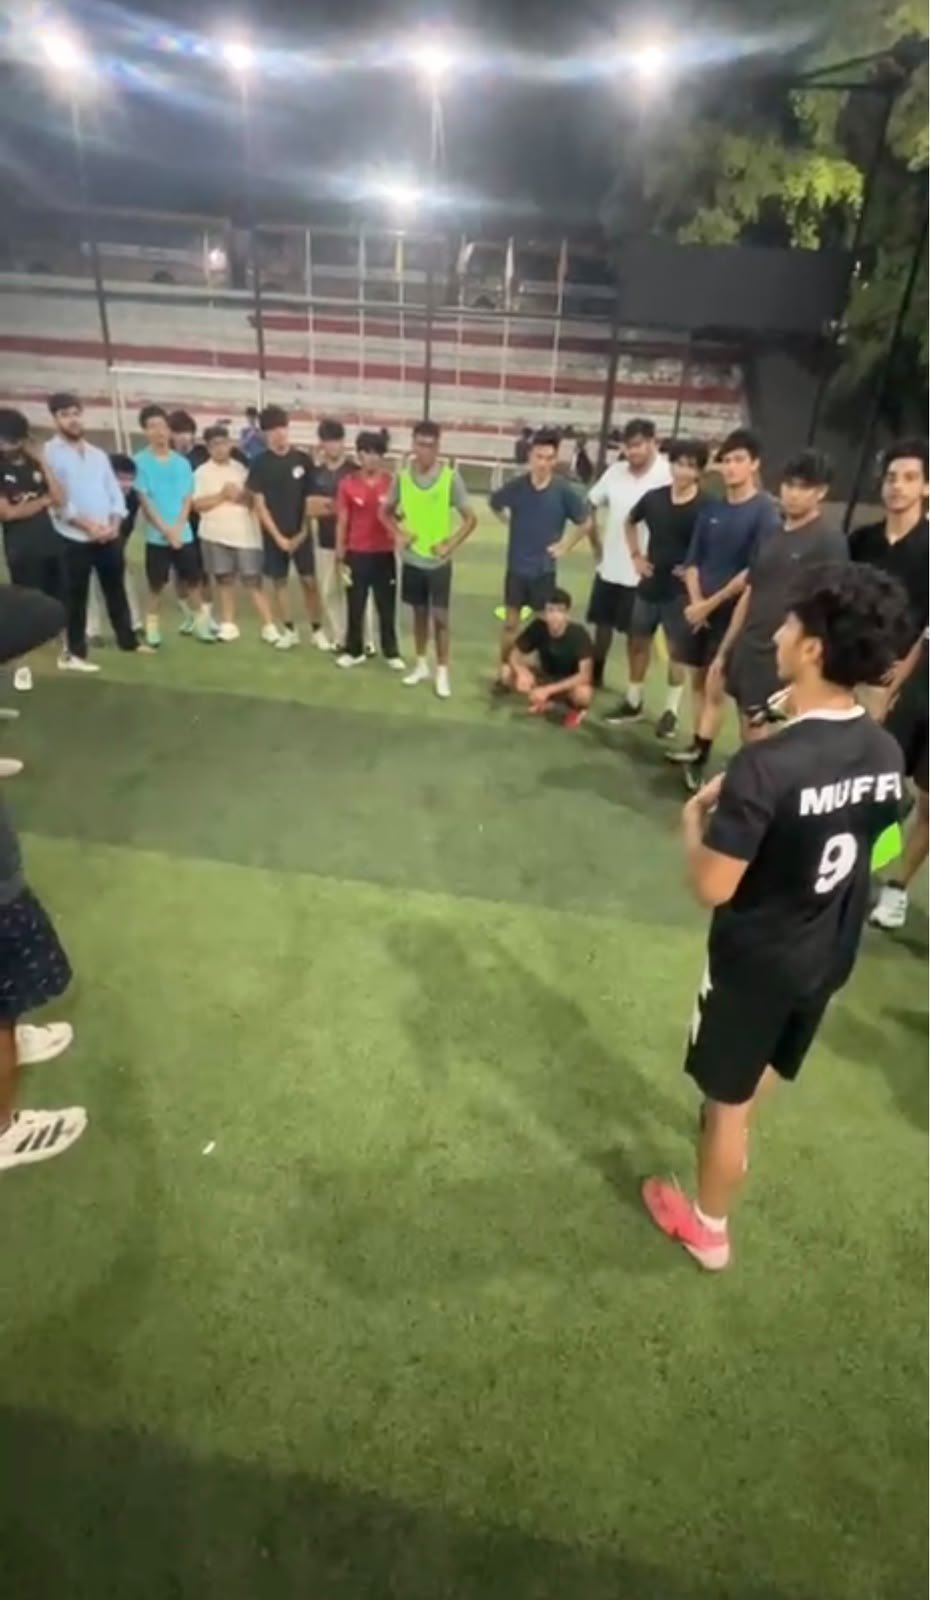
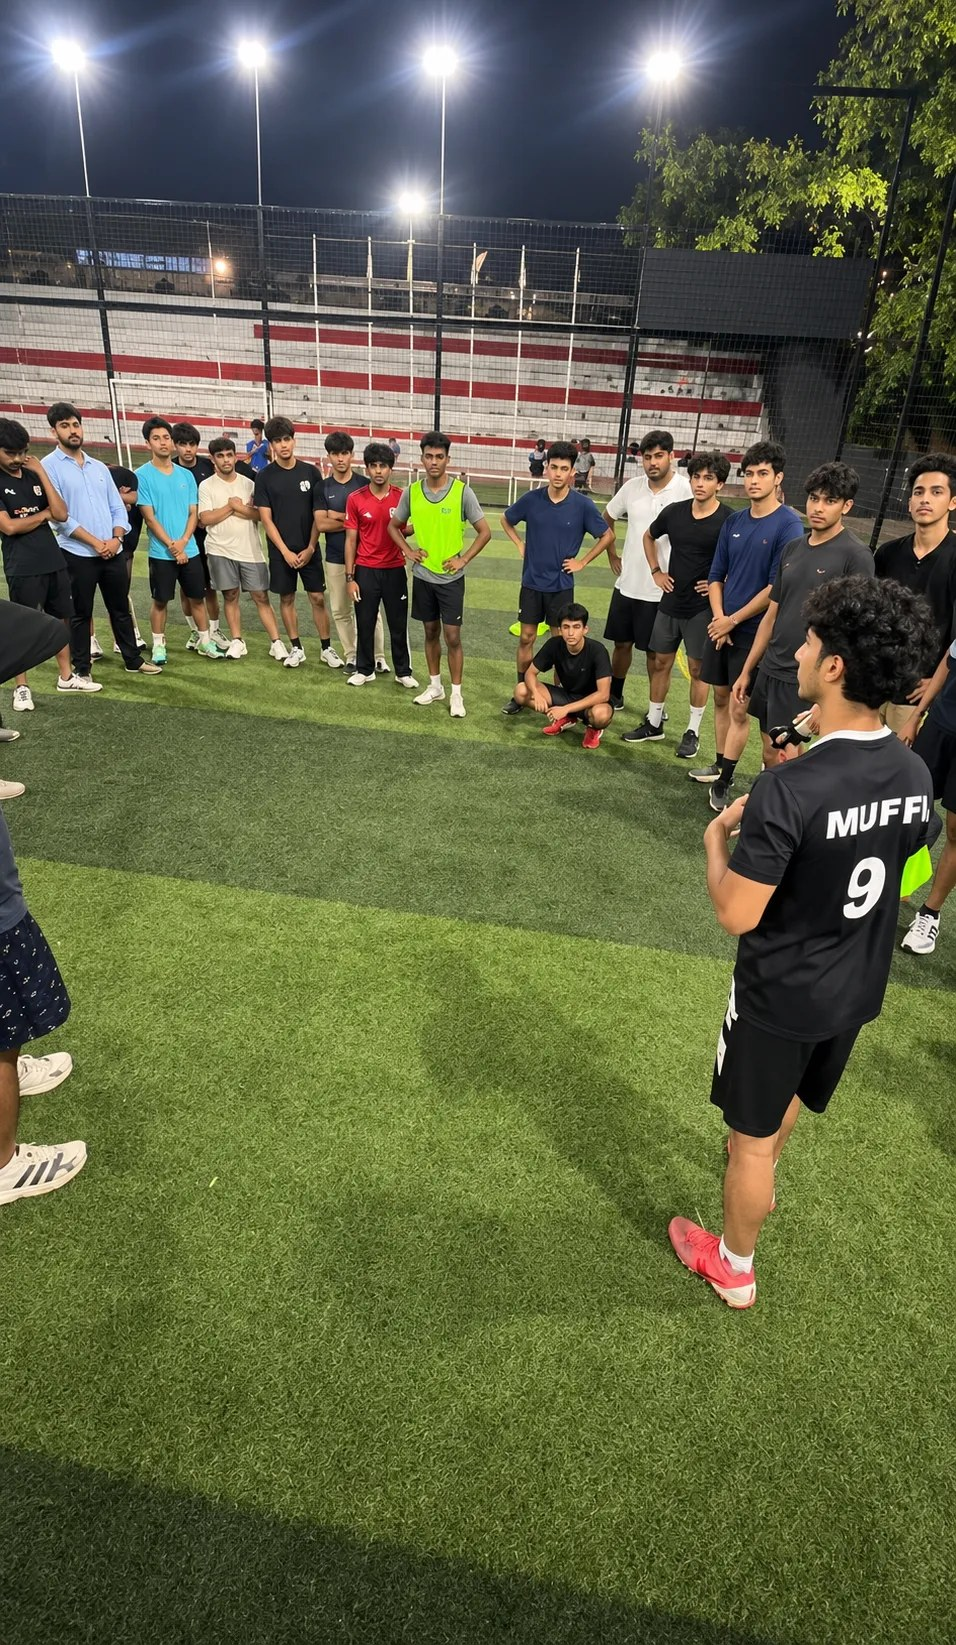
Use the wider huddle frame on Sports Secretary
Replace the photograph behind mesa-team-huddle.jpg with the wider frame of
the same moment, which carries more of the circle and a little more of the
pitch. Same 0.581 portrait, so the section's 1:1 framing is unchanged.

Re-aimed from 48% to 40% for the new frame, checked against 30 and 58: it
holds the whole circle of players with their faces above the fold of the
crop, and him head to shin with the shirt readable.

Verified at 1440, 820 and 390: Sports Secretary keeps its four section
images and no gallery, no broken images, no horizontal overflow, and no
console errors or warnings on any of the eleven routes. Typecheck, lint and
build pass.

Claude-Session: https://claude.ai/code/session_01EdqeTWJhsGnzutCTHzau4Y

diff --git a/data/experiences.ts b/data/experiences.ts
@@ -498,10 +498,11 @@ export const experience: ExperienceItem[] = [
         image: {
           src: "/images/mesa-team-huddle.jpg",
           alt: "Mufaddal in a Muffi 9 shirt briefing a circle of players on a floodlit pitch",
-          width: 930,
-          height: 1600,
+          width: 956,
+          height: 1645,
           ratio: "1 / 1",
-          focus: "center 48%",
+          // Holds the whole circle of players and him head to shin.
+          focus: "center 40%",
         },
       },
       work: {
